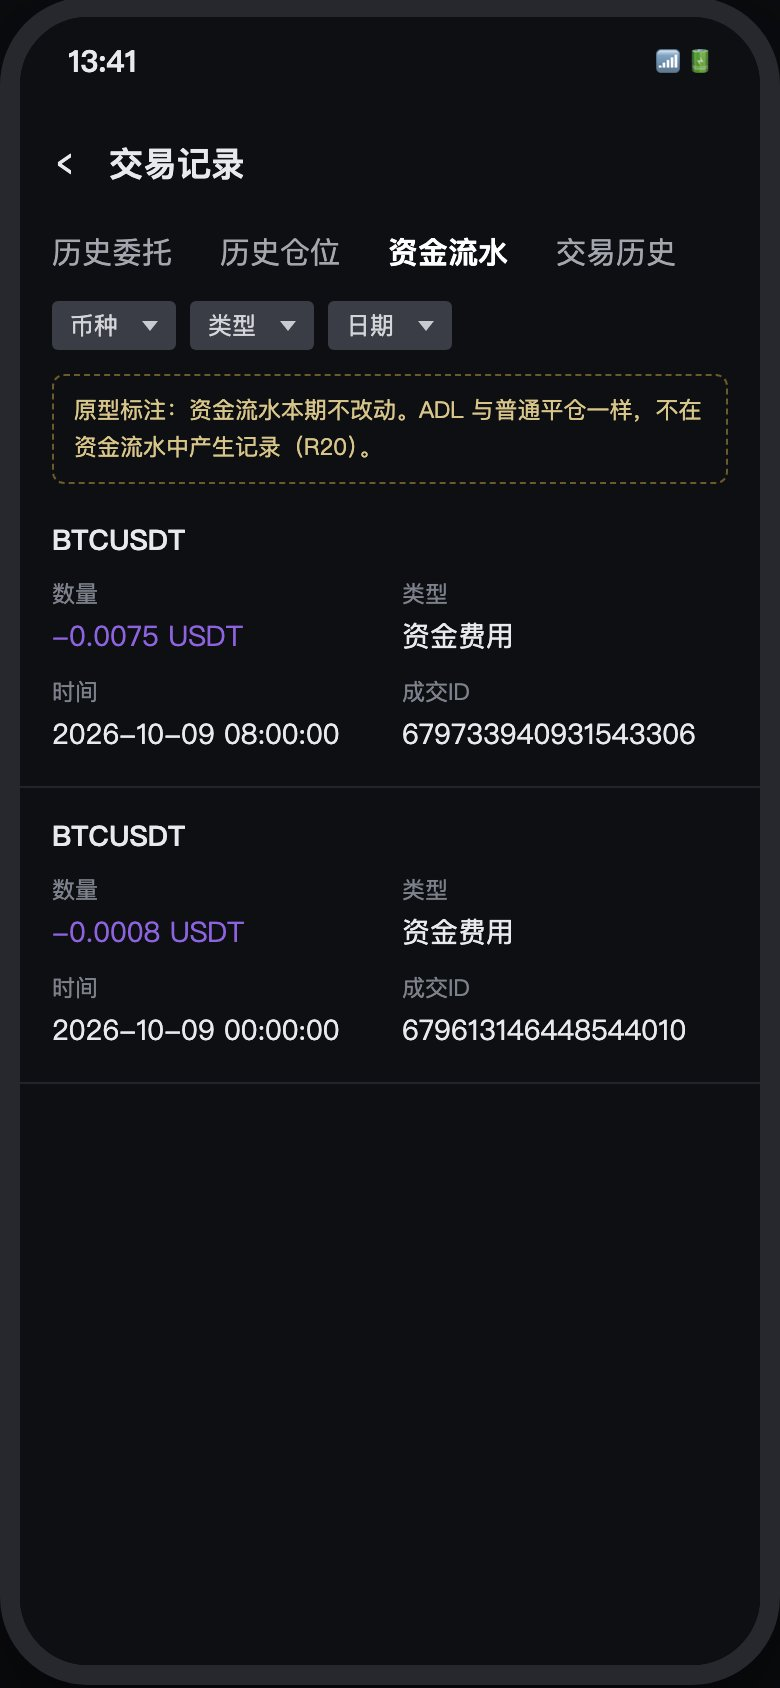
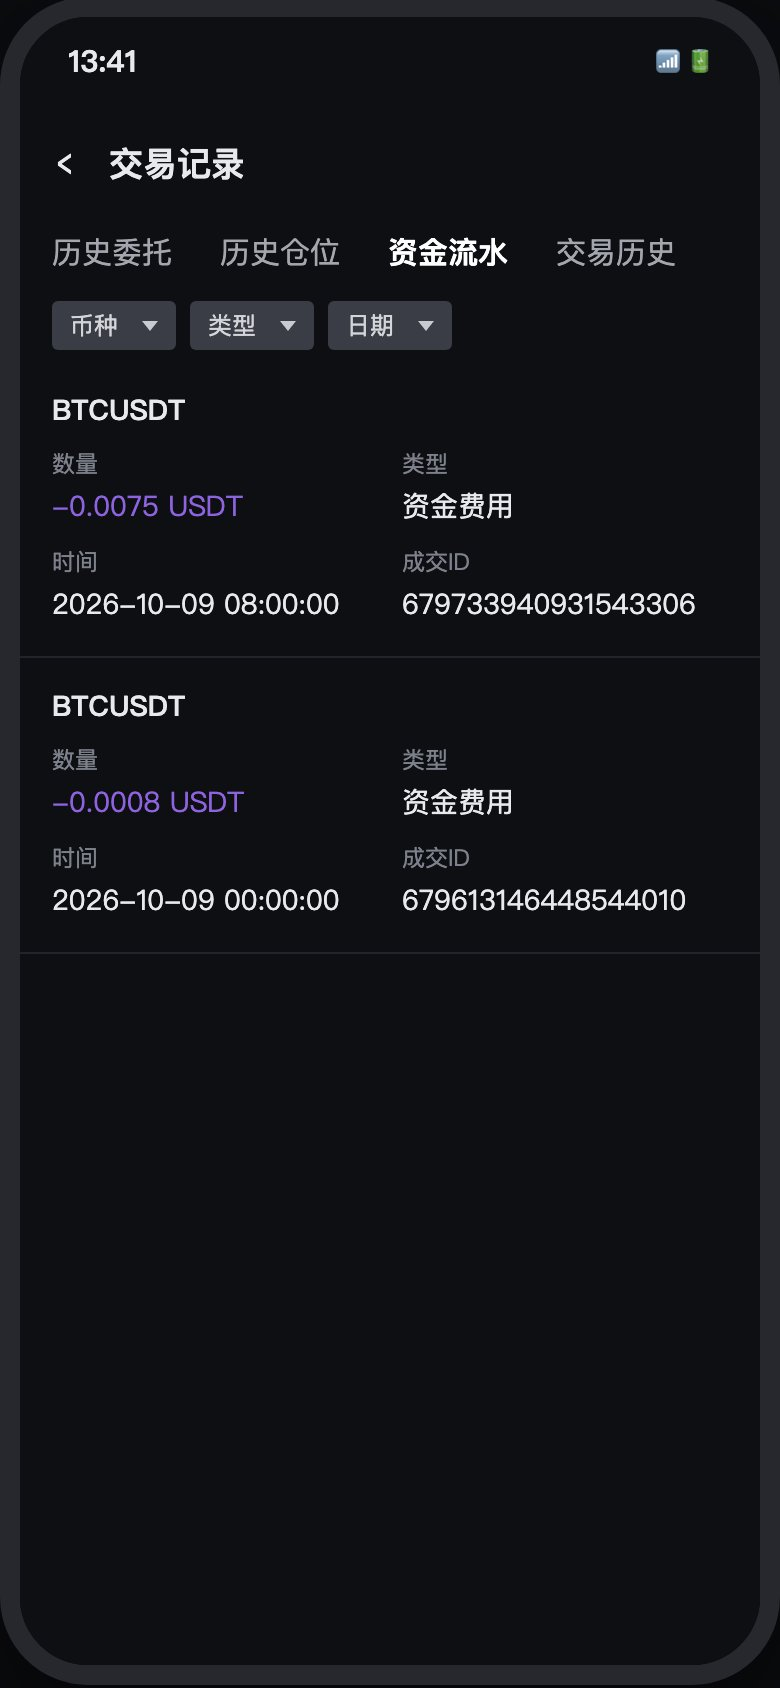
copy: 用户端资金流水删除原型标注

diff --git a/1009-中台ADL减仓.html b/1009-中台ADL减仓.html
@@ -893,8 +893,7 @@ function aHRender(){
   H.pos=(done?posCard('<span class="tg b">多</span><span class="tg">逐仓</span><span class="tg b">10x</span>'+adlTag('ADL'),'a-up',A.mark.toFixed(2),q+' BTC',`+${pnl.toFixed(4)} / +${roe.toFixed(2)}%`,'2026-10-02 09:15:40',T):'')
         +posCard('<span class="tg b">多</span><span class="tg">逐仓</span><span class="tg b">26x</span>','a-down','63978.49','176.259825 USDT','-2.1451 / -40.84%','2026-03-30 06:49:18','2026-06-04 08:24:51');
   const flowCard=(amt,time,id)=>`<div class="tc"><div class="hd"><span>BTCUSDT</span></div><div class="g2">${kv('数量',amt+' USDT','a-down')}${kv('类型','资金费用')}${kv('时间',time)}${kv('成交ID',id)}</div></div>`;
-  H.flow=`<div class="tc-note">原型标注：资金流水本期不改动。ADL 与普通平仓一样，不在资金流水中产生记录（R20）。</div>`
-        +flowCard('-0.0075','2026-10-09 08:00:00','679733940931543306')+flowCard('-0.0008','2026-10-09 00:00:00','679613146448544010');
+  H.flow=flowCard('-0.0075','2026-10-09 08:00:00','679733940931543306')+flowCard('-0.0008','2026-10-09 00:00:00','679613146448544010');
   const fillCard=(tag,qty,fee,price,time,id)=>`<div class="tc"><div class="hd"><span>BTCUSDT${tag}</span></div><div class="g2">${kv('交易品种','BTCUSDT')}${kv('成交数量',qty)}${kv('手续费',fee)}${kv('成交价格',price)}${kv('时间',time)}${kv('成交ID',id)}</div></div>`;
   H.fill=(done?fillCard(adlTag('ADL'),q+' BTC','0',af(A.mark),T,'678732191894668611'):'')
         +fillCard('',openNotional+' USDT','0.4456',af(A.entry),'2026-10-02 09:15:40','678732191894668544');
@@ -931,7 +930,7 @@ function uRender(){
        <tr class="hl"><td>${sym('开多')}</td><td>2026-10-02 09:16:02</td><td><span class="pct">0 张(0%)</span><br>108 张</td><td>止盈: <span class="up">95,000</span><br>止损: --</td><td>因 ADL 撤销</td><td>${cp('678732202145783808')}</td></tr></tbody></table>`:empty('暂无记录')}
     if(uSub==='plan'){t=empty('暂无记录（本期无改动）')}
     h=sub+t}
-  if(uT==='flow'){h=`<div style="padding:8px 14px;color:#d8c58a;font-size:12px;border-bottom:1px dashed #4d4220">原型标注：资金流水本期不改动，ADL 不产生资金流水记录（R20）。</div><table class="wt"><thead><tr><th>时间</th><th>币种</th><th>数量</th><th>类型 ▽</th><th>交易品种</th><th>订单 ID</th></tr></thead><tbody>
+  if(uT==='flow'){h=`<table class="wt"><thead><tr><th>时间</th><th>币种</th><th>数量</th><th>类型 ▽</th><th>交易品种</th><th>订单 ID</th></tr></thead><tbody>
      <tr><td>2026-10-09 08:00:00</td><td>USDT</td><td class="dn">-0.00750000</td><td>资金费用</td><td>BTCUSDT</td><td>${cp('679733940931543306')}</td></tr>
      <tr><td>2026-10-09 00:00:00</td><td>USDT</td><td class="dn">-0.00080000</td><td>资金费用</td><td>BTCUSDT</td><td>${cp('679613146448544010')}</td></tr></tbody></table>`}
   if(uT==='fill'){h=`<table class="wt"><thead><tr><th>交易品种</th><th>成交价格</th><th>成交数量</th><th>手续费</th><th>时间</th><th>成交 ID</th></tr></thead><tbody>
